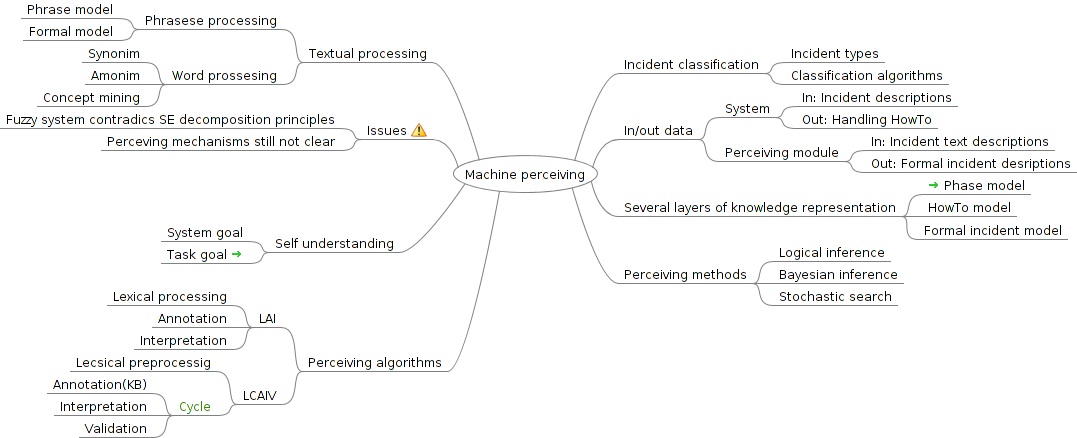
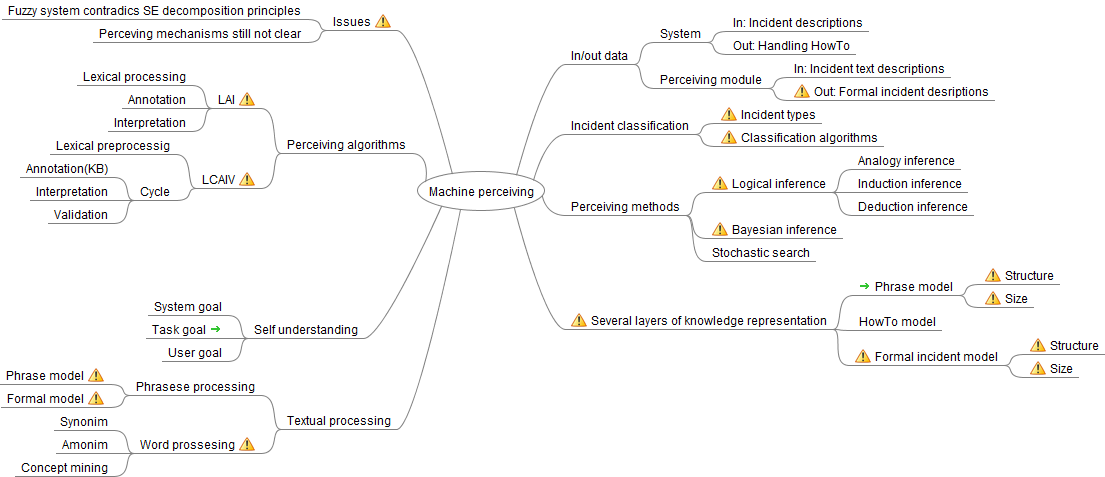
Create high level mind map. Added problem indication to mind map. https://github.com/menta/menta-0.3/issues/78

diff --git a/doc/informal/mind-maps/problem highlevel.mm b/doc/informal/mind-maps/problem highlevel.mm
@@ -1,21 +1,6 @@
 <map version="0.9.0">
 <!-- To view this file, download free mind mapping software FreeMind from http://freemind.sourceforge.net -->
-<node CREATED="1321521600602" ID="ID_918122850" MODIFIED="1324408457255" TEXT="Machine perceiving">
-<node CREATED="1321521719122" ID="ID_1124844826" MODIFIED="1324309628989" POSITION="right" TEXT="Incident classification">
-<node CREATED="1321521842425" ID="ID_1159482544" MODIFIED="1324309638276" TEXT="Incident types"/>
-<node CREATED="1321521871040" ID="ID_131636928" MODIFIED="1324309667739" TEXT="Classification algorithms"/>
-</node>
-<node CREATED="1324309560484" ID="ID_1494785840" MODIFIED="1324310316259" POSITION="left" TEXT="Textual processing">
-<node CREATED="1324310023880" ID="ID_1500077898" MODIFIED="1324408046306" TEXT="Phrasese processing">
-<node CREATED="1324310521441" ID="ID_225919202" MODIFIED="1324408186719" TEXT="Phrase model"/>
-<node CREATED="1324408049272" ID="ID_1256153395" MODIFIED="1324408062894" TEXT="Formal model"/>
-</node>
-<node CREATED="1324310317469" ID="ID_50877952" MODIFIED="1324310328787" TEXT="Word prossesing">
-<node CREATED="1324310330429" ID="ID_1450095455" MODIFIED="1324310473341" TEXT="Synonim"/>
-<node CREATED="1324310480503" ID="ID_1740858606" MODIFIED="1324310484261" TEXT="Amonim"/>
-<node CREATED="1324310500064" ID="ID_166915825" MODIFIED="1324310509759" TEXT="Concept mining"/>
-</node>
-</node>
+<node CREATED="1321521600602" ID="ID_918122850" MODIFIED="1324445928119" TEXT="Machine perceiving">
 <node CREATED="1324309785726" ID="ID_447015694" MODIFIED="1324408884901" POSITION="right" TEXT="In/out data">
 <node CREATED="1324408887783" ID="ID_758480852" MODIFIED="1324408893704" TEXT="System">
 <node CREATED="1324408947253" ID="ID_1264284041" MODIFIED="1324408957584" TEXT="In: Incident descriptions"/>
@@ -23,41 +8,93 @@
 </node>
 <node CREATED="1324408894356" ID="ID_931911047" MODIFIED="1324408899248" TEXT="Perceiving module">
 <node CREATED="1324409007984" ID="ID_1565266986" MODIFIED="1324409026072" TEXT="In: Incident text descriptions"/>
-<node CREATED="1324409027451" ID="ID_219583041" MODIFIED="1324409039051" TEXT="Out: Formal incident desriptions"/>
+<node CREATED="1324409027451" ID="ID_219583041" MODIFIED="1324446356543" TEXT="Out: Formal incident desriptions">
+<icon BUILTIN="messagebox_warning"/>
 </node>
 </node>
-<node CREATED="1324309793582" ID="ID_1732383366" MODIFIED="1324380145672" POSITION="left" TEXT="Issues">
+</node>
+<node CREATED="1321521719122" ID="ID_1124844826" MODIFIED="1324446352183" POSITION="right" TEXT="Incident classification">
+<node CREATED="1321521842425" ID="ID_1159482544" MODIFIED="1324445992984" TEXT="Incident types">
+<icon BUILTIN="messagebox_warning"/>
+</node>
+<node CREATED="1321521871040" ID="ID_131636928" MODIFIED="1324446001903" TEXT="Classification algorithms">
+<icon BUILTIN="messagebox_warning"/>
+</node>
+</node>
+<node CREATED="1324309793582" ID="ID_1732383366" MODIFIED="1324446999633" POSITION="left" TEXT="Issues">
 <icon BUILTIN="messagebox_warning"/>
 <node CREATED="1324310054497" ID="ID_1469138433" MODIFIED="1324310255207" TEXT="Fuzzy system contradics SE decomposition principles"/>
 <node CREATED="1324310283803" ID="ID_1441153909" MODIFIED="1324310299313" TEXT="Perceving mechanisms still not clear"/>
 </node>
-<node CREATED="1324310538706" ID="ID_1622350366" MODIFIED="1324310565120" POSITION="right" TEXT="Several layers of knowledge representation">
-<node CREATED="1324310568355" ID="ID_110703141" LINK="#ID_225919202" MODIFIED="1324408197662" TEXT="Phase model"/>
-<node CREATED="1324310578548" ID="ID_729397721" MODIFIED="1324310679286" TEXT="HowTo model"/>
-<node CREATED="1324310688360" HGAP="16" ID="ID_1922091539" MODIFIED="1324408245100" TEXT="Formal incident model" VSHIFT="1"/>
-</node>
-<node CREATED="1324310762979" HGAP="53" ID="ID_559828872" MODIFIED="1324408497969" POSITION="left" TEXT="Self understanding" VSHIFT="69">
-<node CREATED="1324310803205" ID="ID_1501316224" MODIFIED="1324310810267" TEXT="System goal"/>
-<node CREATED="1324310815941" ID="ID_553926218" LINK="#ID_926328188" MODIFIED="1324409114159" TEXT="Task goal"/>
-</node>
-<node CREATED="1324408328869" ID="ID_1804916058" MODIFIED="1324408352412" POSITION="right" TEXT="Perceiving methods">
-<node CREATED="1324408377654" ID="ID_926328188" MODIFIED="1324408408002" TEXT="Logical inference"/>
-<node CREATED="1324408409572" ID="ID_439319824" MODIFIED="1324408424078" TEXT="Bayesian inference"/>
-<node CREATED="1324408425112" ID="ID_1554134114" MODIFIED="1324408430362" TEXT="Stochastic search"/>
-</node>
 <node CREATED="1324408458873" HGAP="5" ID="ID_144974169" MODIFIED="1324408604137" POSITION="left" TEXT="Perceiving algorithms" VSHIFT="20">
-<node CREATED="1324408507122" ID="ID_386421888" MODIFIED="1324408816573" TEXT="LAI">
-<node CREATED="1324408819088" ID="ID_557288914" MODIFIED="1324408840923" TEXT="Lexical processing"/>
-<node CREATED="1324408842443" ID="ID_806920824" MODIFIED="1324408847738" TEXT="Annotation"/>
-<node CREATED="1324408848518" ID="ID_366682114" MODIFIED="1324408855568" TEXT="Interpretation"/>
+<node CREATED="1324408507122" ID="ID_386421888" MODIFIED="1324446403862" TEXT="LAI">
+<icon BUILTIN="messagebox_warning"/>
+<node CREATED="1324408819088" ID="ID_557288914" MODIFIED="1324446401430" TEXT="Lexical processing"/>
+<node CREATED="1324408842443" ID="ID_806920824" MODIFIED="1324446400797" TEXT="Annotation"/>
+<node CREATED="1324408848518" ID="ID_366682114" MODIFIED="1324446399959" TEXT="Interpretation"/>
 </node>
-<node CREATED="1324408674422" ID="ID_942295091" MODIFIED="1324408720180" TEXT="LCAIV">
-<node CREATED="1324408723719" ID="ID_1842353173" MODIFIED="1324408735271" TEXT="Lecsical preprocessig"/>
-<node COLOR="#338800" CREATED="1324408736397" ID="ID_363331550" MODIFIED="1324408747082" TEXT="Cycle">
+<node CREATED="1324408674422" ID="ID_942295091" MODIFIED="1324446404846" TEXT="LCAIV">
+<icon BUILTIN="messagebox_warning"/>
+<node CREATED="1324408723719" ID="ID_1842353173" MODIFIED="1324446391574" TEXT="Lexical preprocessig"/>
+<node CREATED="1324408736397" ID="ID_363331550" MODIFIED="1324445867205" TEXT="Cycle">
 <node CREATED="1324408760757" ID="ID_692623796" MODIFIED="1324408777545" TEXT="Annotation(KB)"/>
 <node CREATED="1324408778203" ID="ID_953326443" MODIFIED="1324408789996" TEXT="Interpretation"/>
 <node CREATED="1324408790973" ID="ID_178659925" MODIFIED="1324408796202" TEXT="Validation"/>
 </node>
+</node>
+</node>
+<node CREATED="1324408328869" ID="ID_1804916058" MODIFIED="1324408352412" POSITION="right" TEXT="Perceiving methods">
+<node CREATED="1324408377654" ID="ID_926328188" MODIFIED="1324446334747" TEXT="Logical inference">
+<icon BUILTIN="messagebox_warning"/>
+<node CREATED="1324445353694" ID="ID_711489644" MODIFIED="1324445362256" TEXT="Analogy inference"/>
+<node CREATED="1324445362849" ID="ID_1806987040" MODIFIED="1324445720743" TEXT="Induction inference"/>
+<node CREATED="1324445721711" ID="ID_867049212" MODIFIED="1324445728985" TEXT="Deduction inference"/>
+</node>
+<node CREATED="1324408409572" ID="ID_439319824" MODIFIED="1324446326266" TEXT="Bayesian inference">
+<icon BUILTIN="messagebox_warning"/>
+</node>
+<node CREATED="1324408425112" ID="ID_1554134114" MODIFIED="1324408430362" TEXT="Stochastic search"/>
+</node>
+<node CREATED="1324310762979" HGAP="53" ID="ID_559828872" MODIFIED="1324408497969" POSITION="left" TEXT="Self understanding" VSHIFT="69">
+<node CREATED="1324310803205" ID="ID_1501316224" MODIFIED="1324310810267" TEXT="System goal"/>
+<node CREATED="1324310815941" ID="ID_553926218" LINK="#ID_926328188" MODIFIED="1324409114159" TEXT="Task goal"/>
+<node CREATED="1324446665947" ID="ID_841349967" MODIFIED="1324446670378" TEXT="User goal"/>
+</node>
+<node CREATED="1324310538706" ID="ID_1622350366" MODIFIED="1324446728420" POSITION="right" TEXT="Several layers of knowledge representation">
+<icon BUILTIN="messagebox_warning"/>
+<node CREATED="1324310568355" ID="ID_110703141" LINK="#ID_225919202" MODIFIED="1324446030117" TEXT="Phrase model">
+<node CREATED="1324446203592" ID="ID_384097829" MODIFIED="1324446229521" TEXT="Structure">
+<icon BUILTIN="messagebox_warning"/>
+</node>
+<node CREATED="1324446212712" ID="ID_881135525" MODIFIED="1324446232483" TEXT="Size">
+<icon BUILTIN="messagebox_warning"/>
+</node>
+</node>
+<node CREATED="1324310578548" ID="ID_729397721" MODIFIED="1324310679286" TEXT="HowTo model"/>
+<node CREATED="1324310688360" HGAP="16" ID="ID_1922091539" MODIFIED="1324446236235" TEXT="Formal incident model" VSHIFT="1">
+<icon BUILTIN="messagebox_warning"/>
+<node CREATED="1324446733063" ID="ID_1577177917" MODIFIED="1324446743519" TEXT="Structure">
+<icon BUILTIN="messagebox_warning"/>
+</node>
+<node CREATED="1324446738942" ID="ID_1202991533" MODIFIED="1324446744399" TEXT="Size">
+<icon BUILTIN="messagebox_warning"/>
+</node>
+</node>
+</node>
+<node CREATED="1324309560484" ID="ID_1494785840" MODIFIED="1324310316259" POSITION="left" TEXT="Textual processing">
+<node CREATED="1324310023880" ID="ID_1500077898" MODIFIED="1324408046306" TEXT="Phrasese processing">
+<node CREATED="1324310521441" ID="ID_225919202" MODIFIED="1324446691751" TEXT="Phrase model">
+<icon BUILTIN="messagebox_warning"/>
+</node>
+<node CREATED="1324408049272" ID="ID_1256153395" MODIFIED="1324446692671" TEXT="Formal model">
+<icon BUILTIN="messagebox_warning"/>
+</node>
+</node>
+<node CREATED="1324310317469" ID="ID_50877952" MODIFIED="1324446988903" TEXT="Word prossesing">
+<icon BUILTIN="messagebox_warning"/>
+<node CREATED="1324310330429" ID="ID_1450095455" MODIFIED="1324310473341" TEXT="Synonim"/>
+<node CREATED="1324310480503" ID="ID_1740858606" MODIFIED="1324310484261" TEXT="Amonim"/>
+<node CREATED="1324310500064" ID="ID_166915825" MODIFIED="1324310509759" TEXT="Concept mining"/>
 </node>
 </node>
 </node>
